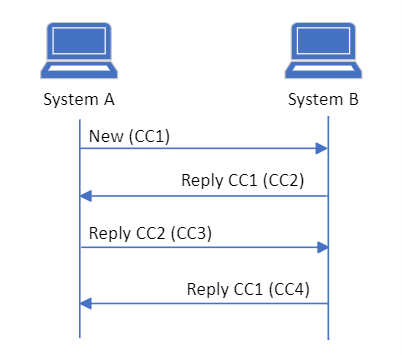
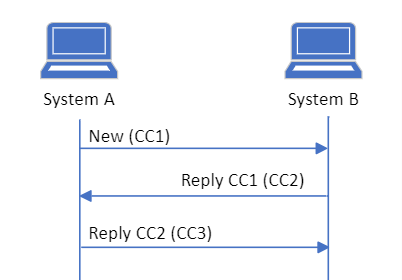
Updated governance after review

diff --git a/docs/assets/documents/governance-for-careCommunication.md b/docs/assets/documents/governance-for-careCommunication.md
@@ -10,47 +10,48 @@
 - [Acknowledgements](#acknowledgements)
 - [Envelope ](#envelope)
 
-A CareCommunication can be send as a new message from a sender to a receiver. When a new message is sent, a message thread is started. A message thread is understood as the messages and correspondence being displayed to the user. A new message can be replied to or forwarded. Depending on the type of response or actions from the user, a new message thread might be started. Governance concerning when to create a new message thread will be accounted for in the following.
+A CareCommunication can be send as a new message from a sender to a receiver. When a new message is sent, a message thread is started. A message thread is the correspondence being displayed to the user. A new message can be replied to or forwarded. Depending on the type of response or actions from the user, a new message thread might be created. Governance concerning when to create a new message thread will be accounted for in the following.
 
-Governance for CareCommunication must be seen as additional requirements besides the Implementation Guide, use cases and clinical guidelines for application. Consequently, the requirements for managing message threads will also be included in the test protocols. Exchange of CareCommunications messages follows the regular message exchange over the VANS-network.
+Governance for CareCommunication must be seen as additional requirements besides the Implementation Guide, use cases and clinical guidelines for application. Consequently, the requirements for managing message threads are also included in the test protocols. 
 
 # Coupling of messages
 
-A communication identifier is implemented to ensure that CareCommunications sent back and forth between healthcare professionals are displayed correctly and similarly to the sender and receiver. When to create a new communication identifier is presented in section Requirements and optionality regarding the flow.
+A communication identifier is implemented to ensure that CareCommunications sent back and forth between healthcare professionals are displayed correct and likewise to the sender and receiver. When to create a new communication identifier is presented in section Requirements and optionality regarding the flow.
 
-A Provenance instance describes the activity of the current message is it for example a new message or a reply. In case the message is a reply or forwarding, the instance will reference the MessageHeader.id it is responding to. Further, the Provenance instance includes a reference to the payloads in the Communication instance (message segments with text or attachments) that are included for this current message. If there for example is included one payload with message text and two with attachments for the current message, the Provenance will reference all three identifiers for the payloads. 
+A Provenance instance describes the activity of the current message, for example is it a new message or a reply. In case the message is a reply or forwarding, the instance will reference the MessageHeader.id from the message it is responding to. Further, the Provenance instance includes a reference to the payload(s) (also known as the message segments with text or attachments) in the Communication instance that are included for this current message. If there, for example, is included one payload with message text and two with attachments for the current message, the Provenance will include the identifier from all three payloads. 
 
 # Requirements and optionality regarding the flow
 
 ## Rules regarding new CareCommunication 
 
 **Sender system**<br>
-1.	User of a sender system MUST be able to send a new CareCommunication. The sender system MUST include a unique communication identifier for the message thread.
+1.	User of a sender system **SHALL** be able to send a new CareCommunication. The sender system **SHALL** include a unique communication identifier for the message thread.
 
 **Receiver system**<br>
-2.	User of receiver systems MUST be able to see a new CareCommunication in an independent message thread.
+2.	User of receiver systems **SHALL** be able to see a new CareCommunication is received in a new message thread.
 
 ## Rules regarding replies 
-It is a requirement that a system can send a reply to an already received CareCommunication. It is also a requirement that a system can receive and show a reply, which includes previous text and attachments from message segments in the message. <a href="#Fig1">Figure 1</a> illustrates the flow for replying with CareCommunications.
+It is a requirement that a system can send a reply to an already received CareCommunication, which can be a new message, reply or forwarding. It is also a requirement that a system can receive and display all message segments in the message to create a historical overview for the user. <a href="#Fig1">Figure 1</a> illustrates the flow for replying with CareCommunications.
 
 <figure style="margin-left: 0px; margin-right: 0px; width: 100%;">
 <a href="../images/Rules-reply.png" target="_blank"> <img src="../images/Rules-reply.png" alt="rules reply" style="width:auto; margin-left:0px; margin-right:0px;" id="Fig1"></a>
-<figcaption text-align="left"><b>Figure 1 shows the communications flow when replying to a CareCommunication. The lower reply of CC1 illustrates that the user of system B chooses to reply to a previously received CareCommunication and consequently a new message thread is created.</b></figcaption>
+<figcaption text-align="left"><b>Figure 1 shows the communications flow when replying to a CareCommunication.</b></figcaption>
 </figure>
 <br>
 
 **Sender system**<br>
-3.	User of a sender system MUST be able to reply to a new CareCommunication or the latest received reply or forwarded CareCommunication, as illustrated with message CC1, CC2 and CC3 in <a href="#Fig1">Figure 1</a>. In these cases, the communication identifier MUST remain the same. 
+3.	User of a sender system **SHALL** be able to reply to a new CareCommunication or the latest received reply or forwarded CareCommunication. In these cases, the communication identifier **SHALL** remain the same in the reply. 
 4.	User of a sender system SHOULD be able to reply to the latest message when the latest message is sent from the sender system itself. 
-5. User of the sender system MUST NOT be able to reply to messages which isn't the latest. If this is necesary, a new message thread with a unique communication identifier must be created. 
-6.	When replying to a CareCommunication that already includes an attachment, only the identifier MUST be included in the reply, not the base64-encoded content. 
+5. User of the sender system **SHALL** NOT be able to reply to messages which isn't the latest. If this is necesary, a new message thread with a unique communication identifier **SHALL** be created. 
+6.	When replying to a CareCommunication that already includes an attachment, the base64-encoded content **SHALL** NOT be included, but the identifier, timestamp and title **SHALL** be included, and author information **SHALL** be included if available. 
 
-**Receiver system**<br>
-7.	User of receiver system MUST be able to see the received replies in the same message thread as previous CareCommunication with identical communication identifier.
-8.	In cases where a CareCommunication does not arrive and an unknown message is afterwards included in a CareCommunication, the unknown message segment must be displayed to the user in the associated message thread, ordered by the timestamp from the message segment. It MUST be clear to the user that an unread message is received.
-9.	In cases where a CareCommunication arrives in unexpected order the received messages MUST be displayed to the user in the associated message thread, ordered by the timestamp from the message segment. When a delayed CareCommunication appears, it MUST be displayed in the same message thread. It MUST be clear to the user that an unread message is received. 
-10.	In cases where a CareCommunication is received with an unknown communication identifier, the message segments must be displayed to the user in a new message thread.
-11.	When two systems, at the same time, sends a reply to the same CareCommunication with the same communication identifier, both systems MUST be able to handle receiving a reply which is not the latest reply in the message thread in the system. This is managed by including the received CareCommunication in the message thread with the same communication identifier. It MUST be clear to the user that an unread message is received. The flow for parallel sent CareCommunications is illustrated on <a href="#Fig2">Figure 2</a>.
+**Receiver system**<br> **HUSK KRAV OM tydelige referencer mellem meddelelser.**
+7.	User of receiver system **SHALL** be able to see the received replies in the same message thread as previous CareCommunication with identical communication identifier.
+8.	In cases where a CareCommunication does not arrive and an unknown message segment is afterwards included in a received CareCommunication, the unknown message segment **SHALL** be displayed to the user in the associated message thread. The messages **SHALL** be ordered by the timestamp from the message segment. It **SHALL** be clear to the user that an unread message is received.
+9.	In cases where a CareCommunication arrives in unexpected order the received messages **SHALL** be displayed to the user in the associated message thread, ordered by the timestamp from the message segment. When a delayed CareCommunication appears, it **SHALL** be displayed in the same message thread. It **SHALL** be clear to the user that an unread message is received. 
+10. In cases where a reply is received with an unknown communication identifier, the message segment(s) **SHALL** be displayed to the user in a new message thread.
+11. When two systems, at the same time, sends a reply to the same CareCommunication with the same communication identifier, both systems **SHALL** be able to handle receiving a reply which is not the latest reply in the message thread in the system. This is managed by including the received CareCommunication in the message thread with the same communication identifier. The flow for parallel sent CareCommunications is illustrated on <a href="#Fig2">Figure 2</a>. It **SHALL** be clear to the user that an unread message is received and which message it is a reply to. The message segments **SHALL** be ordered by the sender of the messages. The message sent by the initiator of the communication **SHALL** appear as the first, followed by the message send by the replier.
+12. The user **SHALL** be able to continue the communication in the message thread after the flow of messages received in 8, 9, 10, and 11. 
 
 <figure style="margin-left: 0px; margin-right: 0px; width: 100%;">
 <a href="../images/Rules-parallel-replies.png" target="_blank"> <img src="../images/Rules-parallel-replies.png" alt="rules parallel replies" style="width:auto; margin-left:0px; margin-right:0px;" id="Fig2"></a>
@@ -61,7 +62,7 @@ It is a requirement that a system can send a reply to an already received CareCo
 
 ## Rules regarding forwarding
 
-It is optional for the system to support forwarding of a CareCommunication; however, it is a requirement that all systems can receive and show a forwarded CareCommunication. If the sender system supports forwarding the user must be able to forward the entire message thread which may consist of one or more CareCommunications and attachments. The system functionality where the user may choose and select which specified parts of the message thread that the user wishes to forward, is not required but optional. A flow of forwarded CareCommunications can be seen in Figure 3.
+It is optional for the system to support forwarding of a CareCommunication; however, it is a requirement that all systems can receive and display a forwarded CareCommunication. If the sender system supports forwarding the user must be able to forward the entire message thread which may consist of one or more CareCommunications and attachments. System functionality where the user may choose and select which specified parts of the message thread that the user wishes to forward, is not required but optional. Only the chosen message segments and associated Provenances must be included. The flow of forwarded CareCommunications can be seen in <a href="#Fig3">Figure 3</a>.
 
 <figure style="margin-left: 0px; margin-right: 0px; width: 100%;">
 <a href="../images/Rules-forward.png" target="_blank"> <img src="../images/Rules-forward.png" alt="rules forward" style="width:auto; margin-left:0px; margin-right:0px;" id="Fig3"></a>
@@ -70,30 +71,30 @@ It is optional for the system to support forwarding of a CareCommunication; howe
 <br>
 
 **Sender system**<br>
-12.	User of sender system SHOULD be able to forward all CareCommunication in a message thread, as illustrated in Figure 3. This forwarding MUST include all previous message segments. In this case the sender system MUST create a new message thread with a new communication identifier.
-13.	User of sender system SHOULD be able to forward the latest sent or received CareCommunication or a previously sent or received CareCommunication. If the user forwards and choose and select specific parts of the message, only the selected CareCommunication MUST be included. 
-14.	After forwarding a CareCommunication, the user MUST be able to continue the communication in the original message thread.
+13.	User of sender system SHOULD be able to forward all CareCommunication in a message thread, as illustrated in <a href="#Fig3">Figure 3</a>. In this case, the forwarding **SHALL** include all previous message segments and the sender system **SHALL** create a new message thread with a new, unique communication identifier.
+14.	User of sender system SHOULD be able to forward the latest sent or received CareCommunication or a previously sent or received CareCommunication. If the user forwards and choose specific parts of the message, only the selected CareCommunication **SHALL** be included. 
+15.	After forwarding a CareCommunication, the user **SHALL** be able to continue the communication in the original message thread.
 
 **Receiver system**<br>
-15.	Receiver system MUST be able to display the forwarded CareCommunication in a new message thread. All content in the CareCommunication MUST be displayed in the new message thread.
-16.	The user MUST be able to reply to a forwarded CareCommunication but MUST NOT reply to one of the previous message segments included in the forwarding.
+16.	Receiver system **SHALL** be able to display the forwarded CareCommunication in a new message thread. All content in the CareCommunication **SHALL** be displayed in the new message thread.
+17.	The user **SHALL** be able to reply to a forwarded CareCommunication but **SHALL** NOT reply to one of the previous message segments included in the forwarding. 
+18.	If the system receives a forwarding, the user MAY forward this to a new receiver. In this case, the forwarding **SHALL** include all previous message segments and the sender system **SHALL** create a new message thread with a new, unique communication identifier.
 
 
 ## General rules 
-**Sender system**
-17.	Sender system MUST be able to receive and connect Acknowledgements to send CareCommunications and handle negative Acknowledgements.
-18.	Sender system MUST be able to handle communication identifier as stated above and add message segments and Provenance instances in a CareCommunication.
-**Receiver system**
-19.	Receiver system MUST be able to acknowledge a received CareCommunication with an Acknowledgement. The Acknowledgement MUST include the latest Provenance from the CareCommunication and a new Provenance for the Acknowledgement.
-20.	Receiver system MUST display the messages in timely order based on the timestamp in the message segments.
 
-## Correction and cancellation
-Corrections and cancellations are not a part of the CareCommunication standard. If the user finds a mistake in a sent or received message, he or she is responsible for acting upon this and inform the involved parties. 
+**Sender system**<br>
+19.	Sender system **SHALL** be able to receive and connect Acknowledgements to send CareCommunications and handle negative Acknowledgements.
+20.	Sender system **SHALL** be able to handle communication identifier as stated above and add message segments and Provenance instances in a CareCommunication.
+
+**Receiver system**<br>
+21.	Receiver system **SHALL** be able to acknowledge a received CareCommunication with an Acknowledgement. The Acknowledgement **SHALL** include the latest Provenance from the CareCommunication and a new Provenance for the Acknowledgement.
+22.	Receiver system **SHALL** display the messages in timely order based on the timestamp in the message segments.
+
 
 # Acknowledgements
-All MedCom FHIR messages **SHALL** be acknowledged. To acknowledge a CareCommunication message the [MedCom FHIR Acknowledgement](https://medcomdk.github.io/dk-medcom-acknowledgement/) standard **SHALL** be used.
+23.	All MedCom FHIR messages **SHALL** be acknowledged. To acknowledge a CareCommunication message the [MedCom FHIR Acknowledgement](https://medcomdk.github.io/dk-medcom-acknowledgement/) standard **SHALL** be used.
 
 # Envelope 
-Since the CareCommunication message is sent over the VANS-network, it **SHALL** be wrapped in a VANS-envelope. [This page describes the use of VANS-envelope](https://medcomdk.github.io/MedCom-FHIR-Communication/assets/documents/030_Governance-for-Network-Layer.html).
-
-Values of fields used in a VANSenvelope **SHALL** obey to the [specifications described on the page for VANSenvelope](https://medcomdk.github.io/MedCom-FHIR-Communication/assets/documents/FHIRMessages_NetworkEnvelopes_EN.html#31-carecommunication) for a CareCommunication message.
+24.	Since the CareCommunication message is sent over the VANS-network, it **SHALL** be wrapped in a VANS-envelope. [This page describes the use of VANS-envelope](https://medcomdk.github.io/MedCom-FHIR-Communication/assets/documents/030_Governance-for-Network-Layer.html).
+25.	Values of fields used in a VANSenvelope **SHALL** obey to the [specifications described on the page for VANSenvelope](https://medcomdk.github.io/MedCom-FHIR-Communication/assets/documents/FHIRMessages_NetworkEnvelopes_EN.html#31-carecommunication) for a CareCommunication message.
